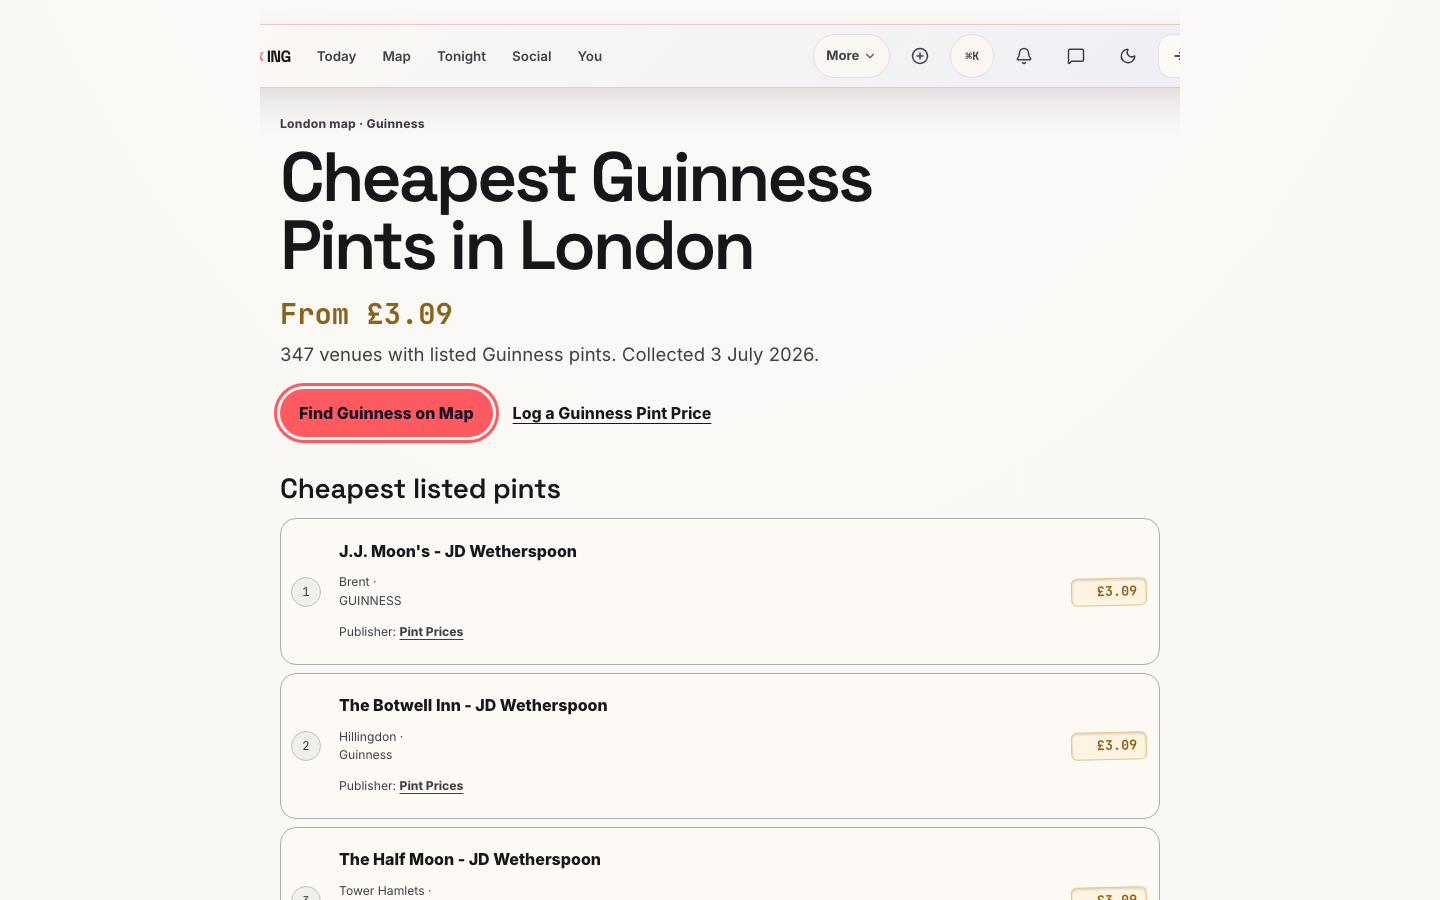
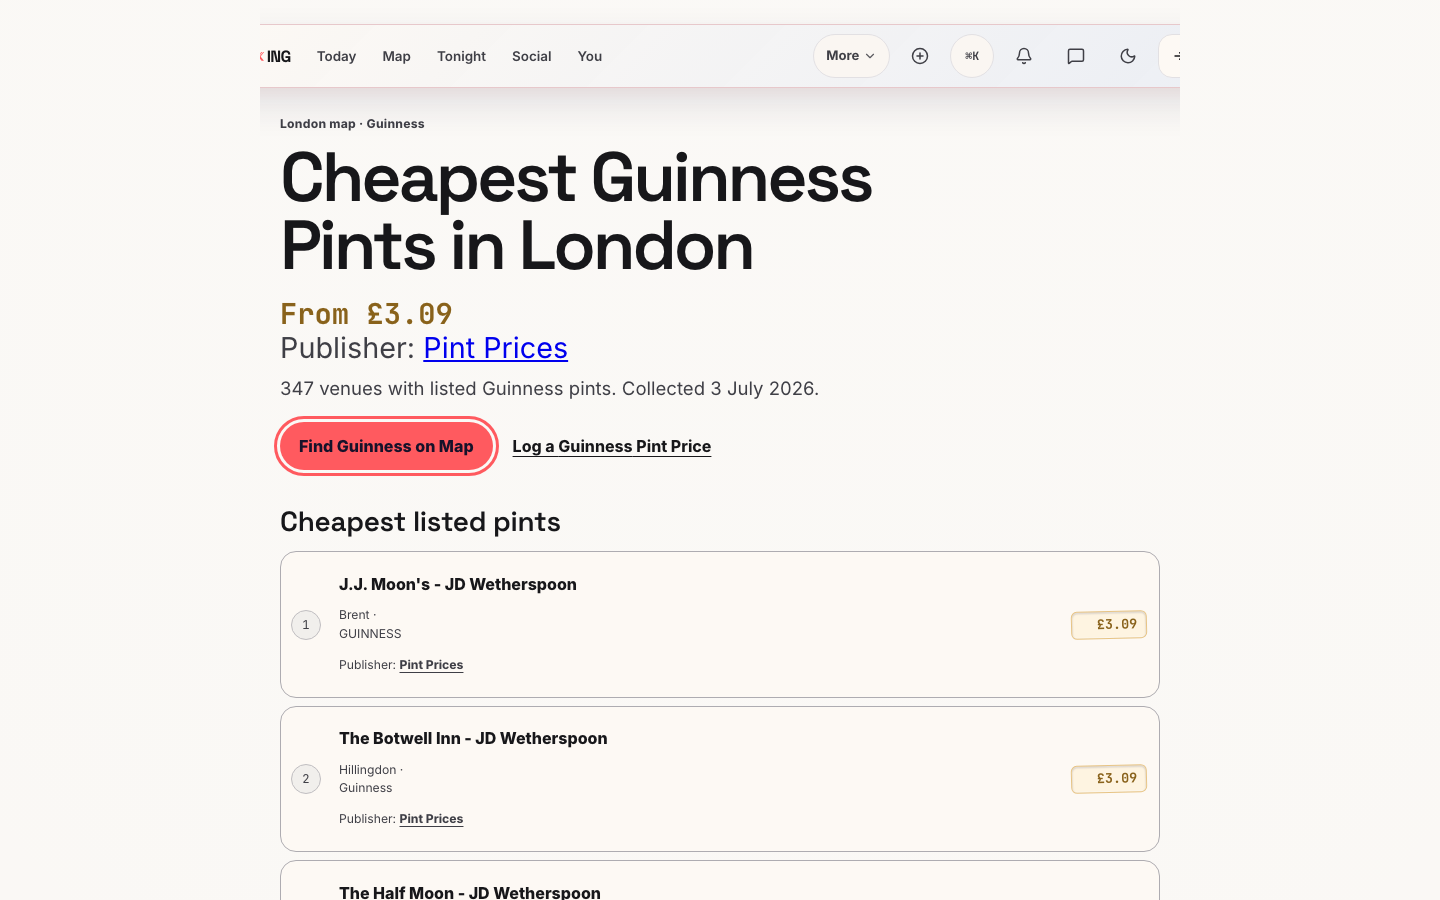
fix: disclose brand price publisher

diff --git a/__tests__/drinkBrandLandingPage.test.ts b/__tests__/drinkBrandLandingPage.test.ts
@@ -1,4 +1,4 @@
-import { createElement } from "react";
+import { createElement, type ReactElement } from "react";
 import { renderToStaticMarkup } from "react-dom/server";
 
 import { describe, expect, it, vi } from "vitest";
@@ -6,7 +6,13 @@ import { describe, expect, it, vi } from "vitest";
 vi.mock("server-only", () => ({}));
 
 vi.mock("next/og", () => ({
-  ImageResponse: class ImageResponse {},
+  ImageResponse: class ImageResponse {
+    element: unknown;
+
+    constructor(element: unknown) {
+      this.element = element;
+    }
+  },
 }));
 
 vi.mock("@/lib/siteUrlConfig.mjs", () => ({
@@ -60,7 +66,7 @@ describe("governed drink brand landing page", () => {
     ]);
   });
 
-  it("keeps route rendering static and revalidates the bundled evidence daily", () => {
+  it("keeps governed route constants while nonce headers make the document dynamic", () => {
     expect(dynamicParams).toBe(false);
     expect(revalidate).toBe(86_400);
   });
@@ -109,9 +115,40 @@ describe("governed drink brand landing page", () => {
       createElement(DrinkBrandLandingContent, { landing: model }),
     );
 
-    expect(html).toContain("Publisher not recorded");
+    expect(html.match(/Publisher not recorded/g)).toHaveLength(2);
     expect(html).not.toContain('target="_blank"');
     expect(html).not.toContain('href="http');
+  });
+
+  it("links the hero price to the exact publisher carried by its first row", () => {
+    const model: DrinkBrandLanding = {
+      slug: "guinness",
+      brandLabel: "Guinness",
+      collectedAt: "2026-07-03T12:00:00.000Z",
+      totalPricedVenues: 20,
+      rows: [
+        {
+          rank: 1,
+          venueId: "venue-1",
+          venueName: "Test Venue",
+          borough: "Camden",
+          pintName: "Guinness",
+          priceGbp: 3.09,
+          publisher: {
+            label: "Exact Publisher",
+            url: "https://publisher.example/price-1",
+          },
+        },
+      ],
+    };
+
+    const html = renderToStaticMarkup(
+      createElement(DrinkBrandLandingContent, { landing: model }),
+    );
+
+    expect(html).toContain("From £3.09");
+    expect(html).toContain('class="drinkBrandLanding__fromPublisher"');
+    expect(html.match(/href="https:\/\/publisher\.example\/price-1"/g)).toHaveLength(2);
   });
 
   it("binds metadata to the canonical route and leaves unknown brands noindex", async () => {
@@ -119,10 +156,18 @@ describe("governed drink brand landing page", () => {
       generateMetadata({ params: Promise.resolve({ slug: "guinness" }) }),
     ).resolves.toMatchObject({
       title: "Cheapest Guinness Pints in London",
+      description:
+        "347 London venues with listed Guinness pints from £3.09. Publisher: Pint Prices.",
       alternates: { canonical: "/drink/guinness" },
       openGraph: {
         type: "website",
         url: "/drink/guinness",
+        description:
+          "347 London venues with listed Guinness pints from £3.09. Publisher: Pint Prices.",
+      },
+      twitter: {
+        description:
+          "347 London venues with listed Guinness pints from £3.09. Publisher: Pint Prices.",
       },
     });
 
@@ -165,5 +210,18 @@ describe("governed drink brand landing page", () => {
         params: Promise.resolve({ slug: "not-a-brand" }),
       }),
     ).rejects.toThrow(/NEXT_HTTP_ERROR_FALLBACK;404/);
+  });
+
+  it("names the exact first-row publisher beside the Open Graph price", async () => {
+    const response = await DrinkBrandLandingImage({
+      params: Promise.resolve({ slug: "guinness" }),
+    });
+    const html = renderToStaticMarkup(
+      (response as unknown as { element: ReactElement }).element,
+    );
+
+    expect(html).toContain("£3.09");
+    expect(html).toContain("Publisher: Pint Prices");
+    expect(html).not.toContain("PUBMAXX pint evidence");
   });
 });

diff --git a/e2e/drink-brand-landing.spec.ts b/e2e/drink-brand-landing.spec.ts
@@ -81,6 +81,23 @@ async function expectNoHorizontalOverflow(page: Page): Promise<void> {
   );
 }
 
+async function expectHorizontallyInsideViewport(
+  page: Page,
+  locator: Locator,
+  label: string,
+): Promise<void> {
+  await expect(locator, `${label} should be visible`).toBeVisible();
+  const box = await locator.boundingBox();
+  expect(box, `${label} should have a layout box`).not.toBeNull();
+  if (!box) return;
+  const viewportWidth = page.viewportSize()?.width ?? 0;
+  expect(box.x, `${label} should start inside the viewport`).toBeGreaterThanOrEqual(0);
+  expect(
+    box.x + box.width,
+    `${label} should end inside the viewport`,
+  ).toBeLessThanOrEqual(viewportWidth + 1);
+}
+
 async function expectVisibleFocus(locator: Locator, label: string): Promise<void> {
   await locator.focus();
   await expect(locator, `${label} should receive keyboard focus`).toBeFocused();
@@ -108,20 +125,25 @@ async function assertLandingContract(page: Page): Promise<void> {
 
   const actions = page.locator(".drinkBrandLanding__actions");
   await expectAboveFold(page, actions, "brand actions");
-  await expect(actions.getByRole("link", { name: `Find ${BRAND} on Map`, exact: true })).toHaveAttribute(
+  const primaryAction = actions.getByRole("link", { name: `Find ${BRAND} on Map`, exact: true });
+  const secondaryAction = actions.getByRole("link", {
+    name: `Log a ${BRAND} Pint Price`,
+    exact: true,
+  });
+  await expect(primaryAction).toHaveAttribute(
     "href",
     "/map?drink=beer&brand=guinness",
   );
-  await expect(actions.getByRole("link", { name: `Log a ${BRAND} Pint Price`, exact: true })).toHaveAttribute(
+  await expect(secondaryAction).toHaveAttribute(
     "href",
     "/map?drink=beer&brand=guinness&log=1",
   );
   await expectTouchTarget(
-    actions.getByRole("link", { name: `Find ${BRAND} on Map`, exact: true }),
+    primaryAction,
     "Find on Map action",
   );
   await expectTouchTarget(
-    actions.getByRole("link", { name: `Log a ${BRAND} Pint Price`, exact: true }),
+    secondaryAction,
     "Log Pint Price action",
   );
 
@@ -134,8 +156,12 @@ async function assertLandingContract(page: Page): Promise<void> {
 
   for (let index = 0; index < 20; index += 1) {
     const row = rows.nth(index);
+    const rank = row.locator(".drinkBrandLanding__rank");
+    const price = row.locator(".drinkBrandLanding__price");
     await expect(row.locator(".drinkBrandLanding__venue")).toHaveCount(1);
     await expect(row.locator(".drinkBrandLanding__publisher")).toHaveCount(1);
+    await expectHorizontallyInsideViewport(page, rank, `row ${index + 1} rank`);
+    await expectHorizontallyInsideViewport(page, price, `row ${index + 1} price`);
     await expectTouchTarget(row.locator(".drinkBrandLanding__venue"), `row ${index + 1} Ledger link`);
     const publisherLink = row.locator(".drinkBrandLanding__publisher a");
     if (await publisherLink.count()) {
@@ -143,11 +169,15 @@ async function assertLandingContract(page: Page): Promise<void> {
     }
   }
 
+  await expectVisibleFocus(primaryAction, "Find on Map action");
+  await expectVisibleFocus(secondaryAction, "Log Pint Price action");
+  await expectVisibleFocus(rows.first().locator(".drinkBrandLanding__venue"), "Ledger row link");
   await expectVisibleFocus(
-    actions.getByRole("link", { name: `Find ${BRAND} on Map`, exact: true }),
-    "Find on Map action",
+    rows.first().locator(".drinkBrandLanding__publisher a"),
+    "publisher link",
   );
   await expectNoHorizontalOverflow(page);
+  await page.evaluate(() => window.scrollTo(0, 0));
 }
 
 for (const viewport of MOBILE_VIEWPORTS) {

diff --git a/components/drinks/DrinkBrandLandingContent.tsx b/components/drinks/DrinkBrandLandingContent.tsx
@@ -3,10 +3,7 @@ import Link from "next/link";
 import PriceBadge from "@/components/PriceBadge";
 import { formatObservedDate } from "@/lib/dataFreshness";
 import type { DrinkBrandLanding, DrinkBrandLandingRow } from "@/lib/drinkBrandLanding";
-
-function formatPrice(value: number): string {
-  return `£${value.toFixed(2)}`;
-}
+import { formatPrice } from "@/lib/venues";
 
 function formatCollectedDate(iso: string): string {
   return formatObservedDate(new Date(iso));
@@ -20,19 +17,30 @@ function contributionHref(slug: string): string {
   return `${mapHref(slug)}&log=1`;
 }
 
-function Publisher({ row }: { row: DrinkBrandLandingRow }) {
-  if (!row.publisher) {
-    return <span>Publisher not recorded</span>;
-  }
-
+function PublisherDisclosure({
+  className,
+  row,
+}: {
+  className: string;
+  row: DrinkBrandLandingRow;
+}) {
   return (
-    <a
-      href={row.publisher.url}
-      target="_blank"
-      rel="noopener noreferrer"
-    >
-      {row.publisher.label}
-    </a>
+    <span className={className}>
+      {row.publisher ? (
+        <>
+          <span>Publisher: </span>
+          <a
+            href={row.publisher.url}
+            target="_blank"
+            rel="noopener noreferrer"
+          >
+            {row.publisher.label}
+          </a>
+        </>
+      ) : (
+        "Publisher not recorded"
+      )}
+    </span>
   );
 }
 
@@ -41,7 +49,8 @@ export default function DrinkBrandLandingContent({
 }: {
   landing: DrinkBrandLanding;
 }) {
-  const lowestPrice = formatPrice(landing.rows[0].priceGbp);
+  const firstRow = landing.rows[0];
+  const lowestPrice = formatPrice(firstRow.priceGbp);
 
   return (
     <>
@@ -53,6 +62,11 @@ export default function DrinkBrandLandingContent({
         <h1>Cheapest {landing.brandLabel} Pints in London</h1>
         <p className="drinkBrandLanding__from">
           <strong>From {lowestPrice}</strong>
+          <br />
+          <PublisherDisclosure
+            className="drinkBrandLanding__fromPublisher"
+            row={firstRow}
+          />
         </p>
         <p className="drinkBrandLanding__summary">
           {landing.totalPricedVenues} venues with listed {landing.brandLabel} pints. Collected{" "}
@@ -90,16 +104,10 @@ export default function DrinkBrandLandingContent({
                 </Link>
                 <span className="drinkBrandLanding__borough">{row.borough}</span>
                 <span className="drinkBrandLanding__pint">{row.pintName}</span>
-                <span className="drinkBrandLanding__publisher">
-                  {row.publisher ? (
-                    <>
-                      <span className="drinkBrandLanding__publisherLabel">Publisher: </span>
-                      <Publisher row={row} />
-                    </>
-                  ) : (
-                    <Publisher row={row} />
-                  )}
-                </span>
+                <PublisherDisclosure
+                  className="drinkBrandLanding__publisher"
+                  row={row}
+                />
               </div>
               <PriceBadge variant="current" className="drinkBrandLanding__price">
                 {formatPrice(row.priceGbp)}

diff --git a/app/drink/[slug]/page.tsx b/app/drink/[slug]/page.tsx
@@ -10,6 +10,7 @@ import {
   loadDrinkBrandLanding,
   loadDrinkBrandLandings,
 } from "@/lib/drinkBrandLanding.server";
+import { formatPrice } from "@/lib/venues";
 
 import "./drink.css";
 
@@ -34,8 +35,11 @@ export async function generateMetadata({ params }: PageProps): Promise<Metadata>
   }
 
   const title = `Cheapest ${landing.brandLabel} Pints in London`;
-  const cheapest = landing.rows[0].priceGbp;
-  const description = `${landing.totalPricedVenues} London venues with listed ${landing.brandLabel} pints from £${cheapest.toFixed(2)}.`;
+  const firstRow = landing.rows[0];
+  const publisherStatus = firstRow.publisher
+    ? `Publisher: ${firstRow.publisher.label}.`
+    : "Publisher not recorded.";
+  const description = `${landing.totalPricedVenues} London venues with listed ${landing.brandLabel} pints from ${formatPrice(firstRow.priceGbp)}. ${publisherStatus}`;
   const canonical = `/drink/${encodeURIComponent(landing.slug)}`;
 
   return {

diff --git a/app/drink/[slug]/opengraph-image.tsx b/app/drink/[slug]/opengraph-image.tsx
@@ -28,8 +28,12 @@ export default async function Image({
   if (!landing) notFound();
 
   const brand = clampText(landing.brandLabel, 24);
-  const cheapest = priceStamp(landing.rows[0].priceGbp);
+  const firstRow = landing.rows[0];
+  const cheapest = priceStamp(firstRow.priceGbp);
   const pricedVenueCount = landing.totalPricedVenues;
+  const publisherStatus = firstRow.publisher
+    ? `Publisher: ${firstRow.publisher.label}`
+    : "Publisher not recorded";
   const route = `/drink/${encodeURIComponent(landing.slug)}`;
 
   return new ImageResponse(
@@ -105,7 +109,7 @@ export default async function Image({
           fontSize: 22,
         }}
       >
-        <div style={{ display: "flex" }}>PUBMAXX pint evidence</div>
+        <div style={{ display: "flex" }}>{publisherStatus}</div>
         <div style={{ display: "flex", color: OG.inkSoft }}>{`pubmaxxing.com${route}`}</div>
       </div>
     </CardShell>,

diff --git a/__tests__/drinkBrandLanding.test.ts b/__tests__/drinkBrandLanding.test.ts
@@ -134,7 +134,7 @@ describe("governed drink brand landings", () => {
     expect(buildDrinkBrandLanding("guinness", belowFloor)).toBeNull();
   });
 
-  it("keeps governance constants private and landing rows non-empty", () => {
+  it("keeps the fixed builder signature and non-empty landing row invariant", () => {
     expectTypeOf(buildDrinkBrandLanding).toEqualTypeOf<
       (slug: string, venues: readonly Venue[]) => DrinkBrandLanding | null
     >();

diff --git a/docs/proof/drink-brand-landing/README.md b/docs/proof/drink-brand-landing/README.md
@@ -10,8 +10,12 @@ Browser proof for `/drink/guinness`.
 
 The Playwright journey also checks 320 × 844 and 430 × 932. It verifies the
 governed 347-venue count, 20 cheapest rows, first result, publisher state,
-shared collection date, touch targets, keyboard focus, page width, Map brand
-state, Back restoration, the explicit log picker, and the unknown-brand 404.
+hero price publisher, shared collection date, touch targets, page width, Map
+brand state, Back restoration, the explicit log picker, and the unknown-brand
+404. At 320, 390, and 430 pixels, every one of the 20 rank and price elements
+must be visible and horizontally inside the viewport. Focus proof covers the
+primary action, secondary action, Ledger row link, and publisher link; shared
+route CSS covers the remaining links of each repeated type.
 
 Run the proof with:
 

diff --git a/docs/specs/governed-drink-brand-landings.md b/docs/specs/governed-drink-brand-landings.md
@@ -51,7 +51,7 @@ Publish useful London brand-price pages from PUBMAXX Pint Price evidence. A sear
 ## Search Surface
 
 - Valid pages expose canonical, Open Graph, and Twitter metadata.
-- JSON-LD contains only `BreadcrumbList` and the rendered `ItemList`.
+- Route-specific JSON-LD contains only `BreadcrumbList` and the rendered `ItemList`. The root layout continues to supply the site-wide `WebSite` and `Organization` graph.
 - Breadcrumb starts at canonical `/map`, not a redirecting route.
 - Sitemap entries come from the same governed loader as static params and pages.
 - Runtime tracing includes the shared Pint Price landing data reader for page, sitemap, and Open Graph functions.
